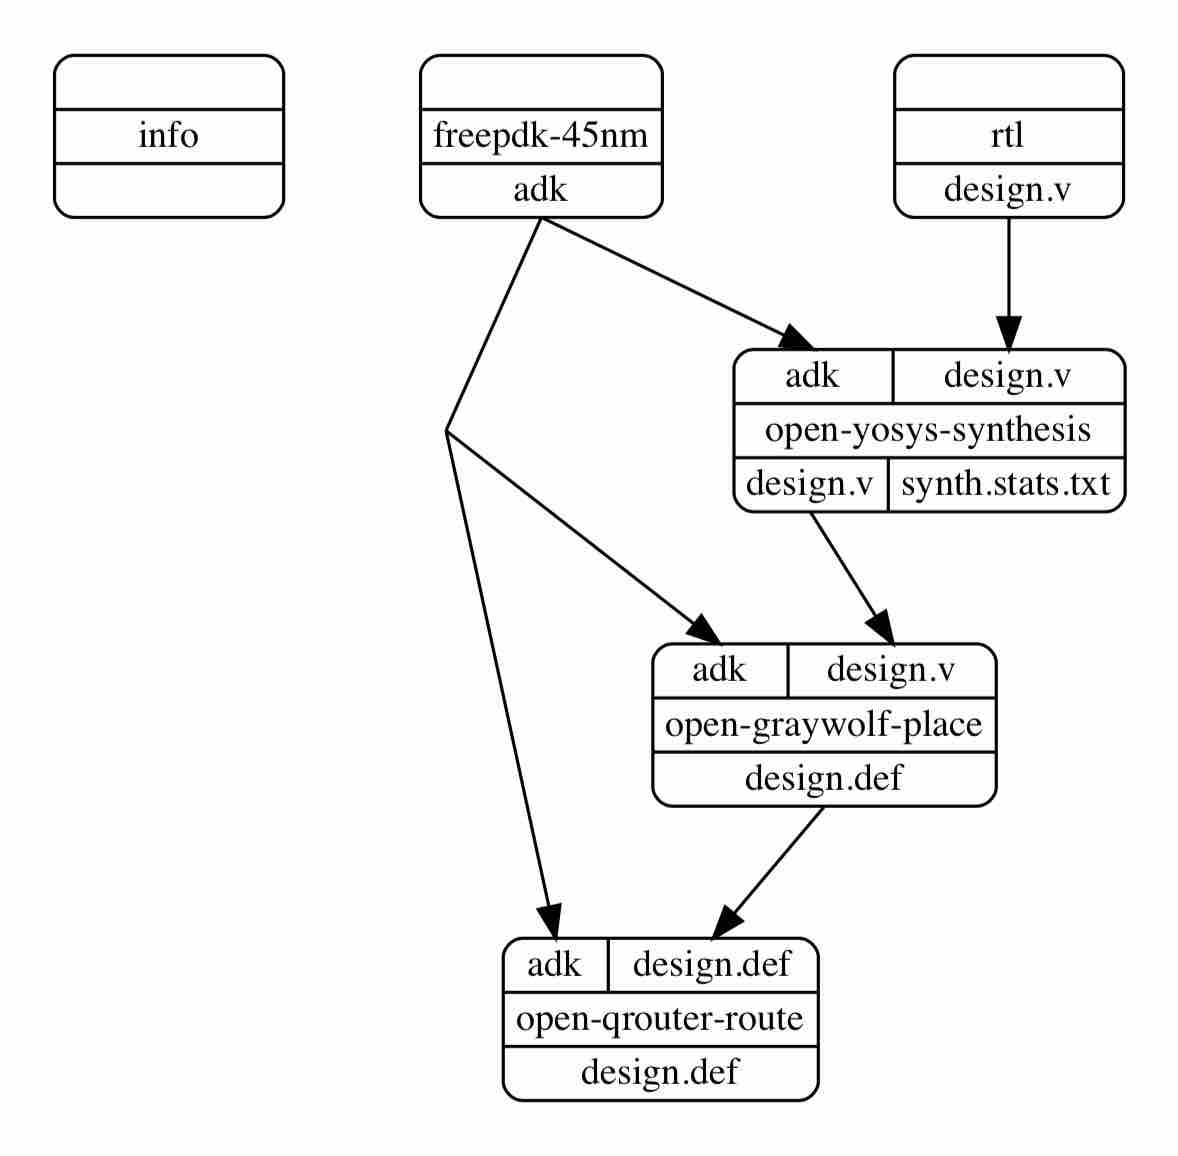
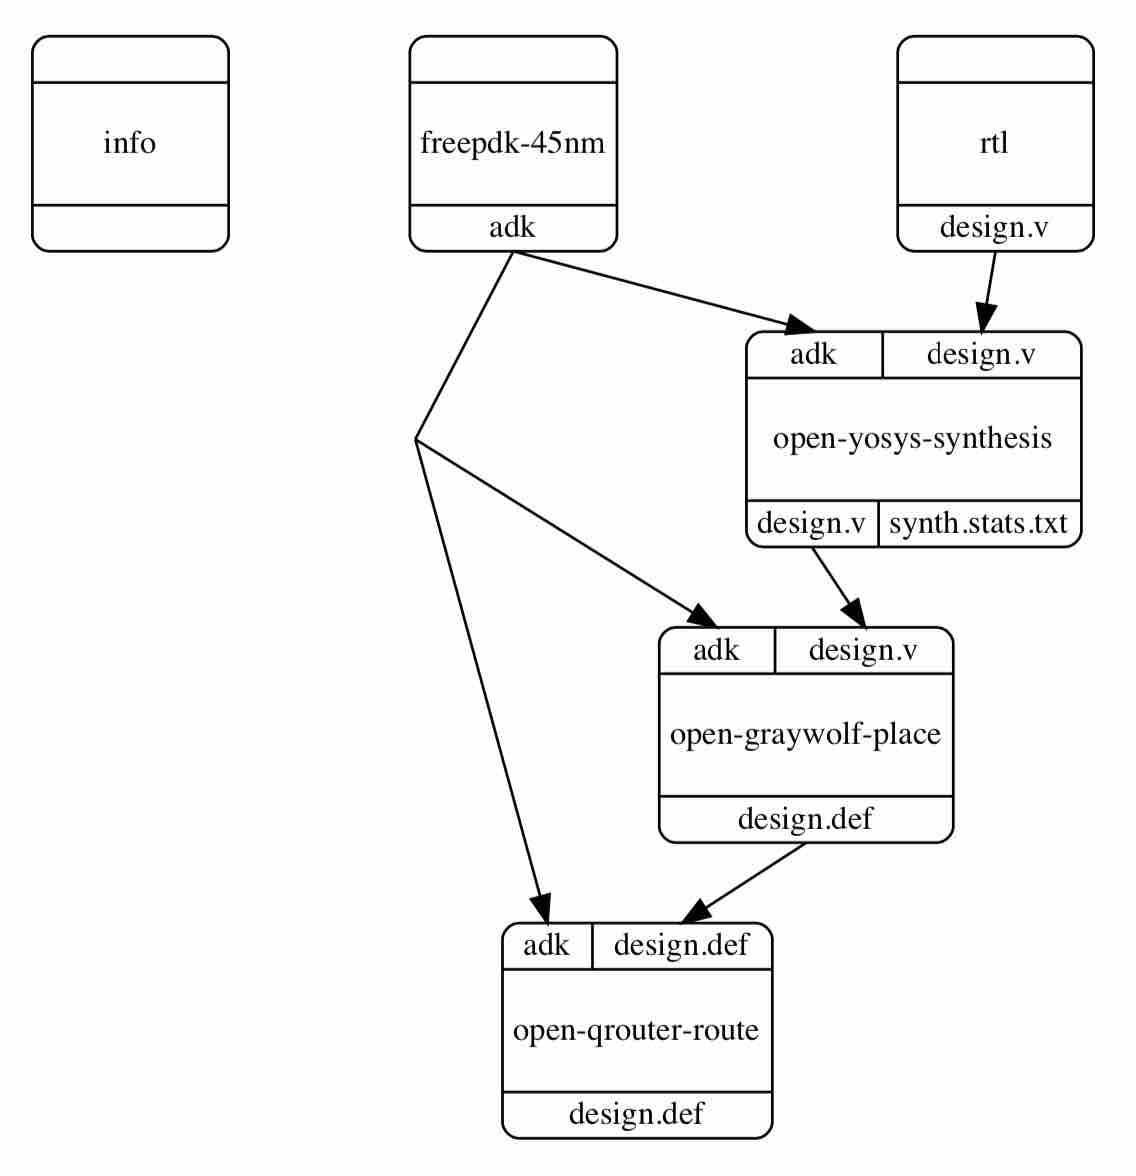
docs

diff --git a/mflow/components/Graph.py b/mflow/components/Graph.py
@@ -263,7 +263,7 @@ ranksep=0.8;
 
     node_template = \
       '{dot_id} [ fontsize=24, width=2, penwidth=2, shape=Mrecord, ' + \
-                 'label="{{ {i} | {name} | {o} }}", color=black ];'
+                 'label="{{ {i} | \\n{name}\\n\\n | {o} }}", color=black ];'
 
     edge_template = \
       '{src_dot_id}:{src_port_id}:s -> {dst_dot_id}:{dst_port_id}:n ' + \

diff --git a/README.md b/README.md
@@ -9,8 +9,8 @@ design-space exploration built around sandboxed and modular steps.
 mflow allows you to programmatically define and parameterize a graph
 of steps (i.e., sandboxes that run anything you like) with
 well-defined inputs and outputs. Build system files (e.g., make,
-ninja) are then generated which shuttle files between sandboxes
-before running them.
+ninja) are then generated which shuttle files between steps before
+running them.
 
 <img width='350px' src='docs/example-graph.jpg'>
 
@@ -25,8 +25,10 @@ Key features and design philosophies:
 - **Sandboxed and modular steps** -- Traditional ASIC flows are
   composed of many steps executing with fixed path dependencies. The
   resulting flows have low reusability across designs and technology
-  nodes and can be confusing and monolithic. Sandboxing each step
-  encourages reuse of the same scripts across many projects.
+  nodes and can be confusing and monolithic. In contrast,
+  _modularity_ encourages reuse of the same scripts across many
+  projects, while _sandboxing_ makes the role of each step easy to
+  understand (i.e., take these inputs and generate those outputs).
 
 - **Programmatically defined build-system generator**: A
   Python-based scripting interface and a simple graph API allows
@@ -161,19 +163,22 @@ Organization
 --------------------------------------------------------------------------
 
 The repository is organized at the top level with directories for
-the ADKs, the design source code, steps, utility scripts:
+the ADKs, designs, and steps (and utility scripts):
 
 ```
 alloy-asic/
 │
 ├── adks/      -- Each subdirectory is an ADK
 ├── designs/   -- Each subdirectory is a design (can be a cloned repo)
-│                   with build graph, RTL, and any design-specific steps
 ├── steps/     -- Collection of generic steps
+│
 │── mflow/     -- Source files for the build system generator
 │── utils/     -- Helper scripts
 └── configure  -- Config script to select a design
 ```
+
+Designs include the graph specification, the source code, and any
+design-specific steps.
 
 New designs are meant to be cloned into (or symlinked into) the
 designs subdirectory for easy access when configuring with `--design`.
@@ -351,4 +356,14 @@ many projects.
 
 More details to come...
 
+<!--
 
+--------------------------------------------------------------------------
+Feature in Detail: A focus on hardware design-space exploration
+--------------------------------------------------------------------------
+
+Physical design-space exploration often involves micro-decisions (what is the impact of sweeping
+
+More details to come...
+
+-->
